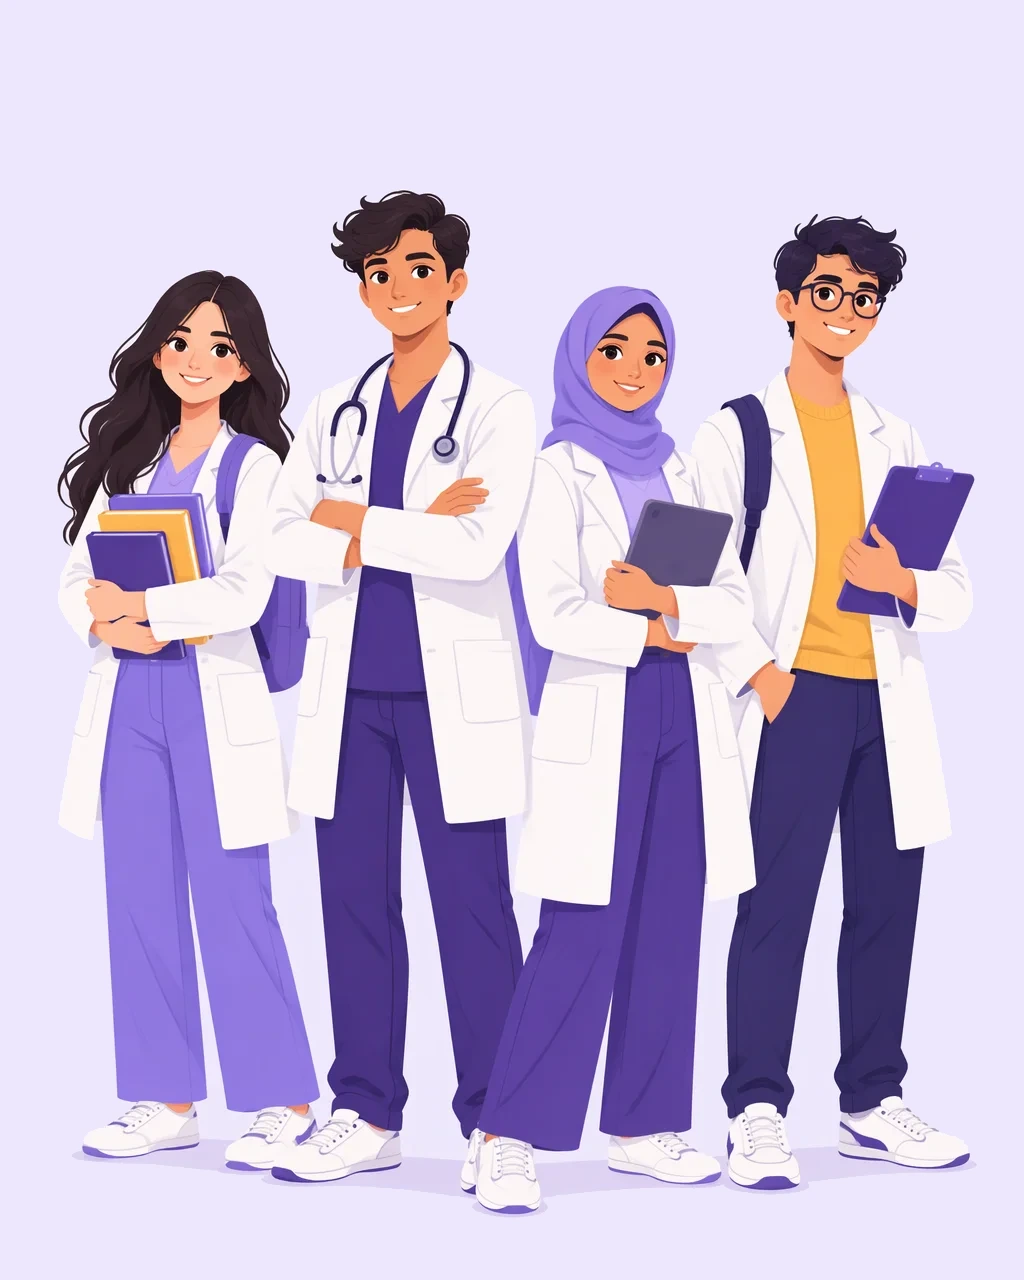
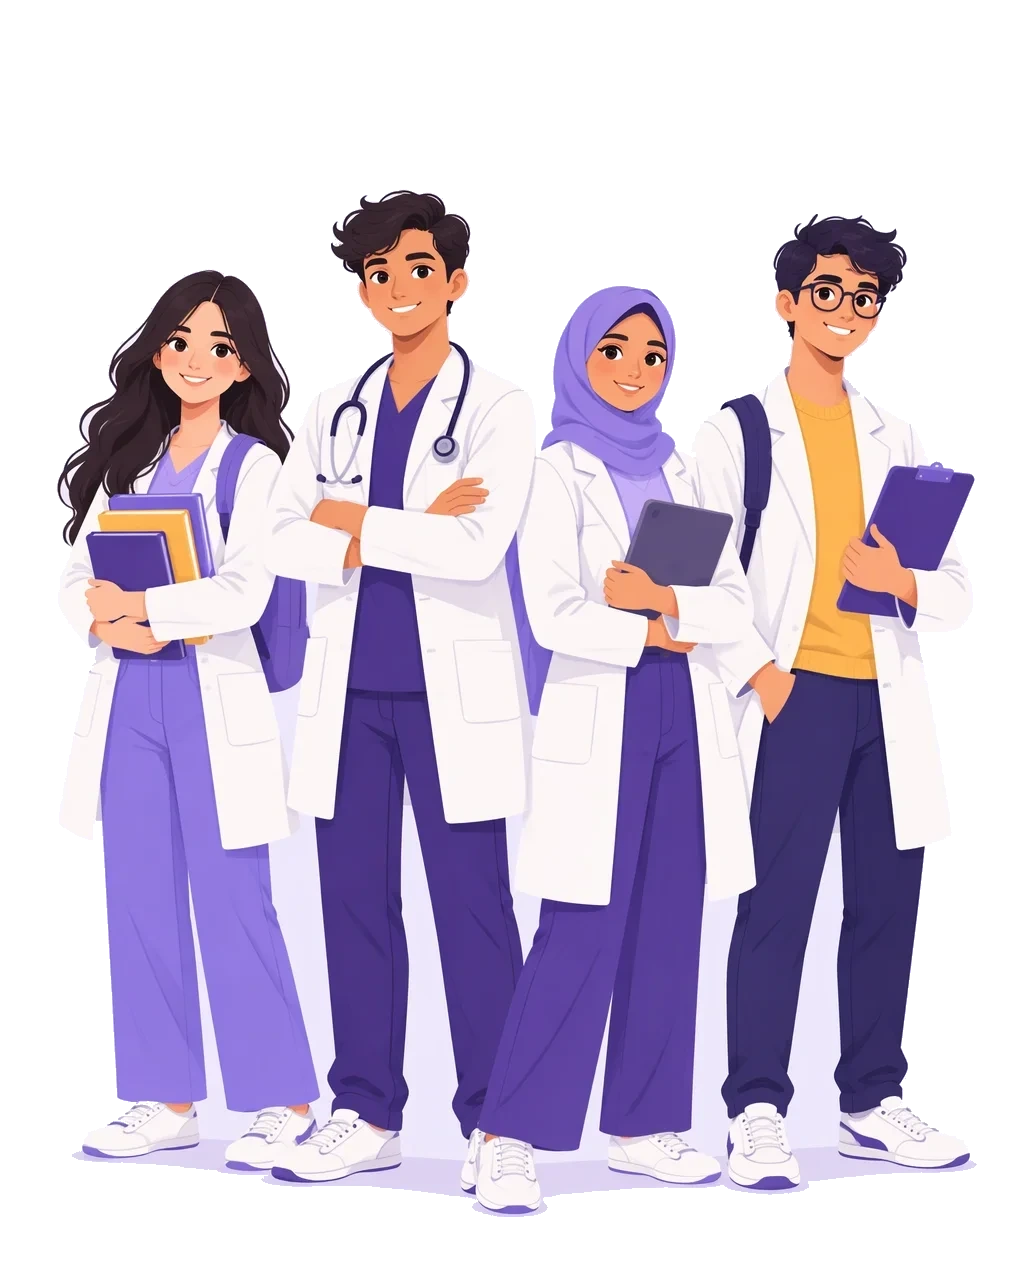
fix: auth pages — laptop-tier sizing, transparent illustrations, no magic cursor
- add 1200–1439px tier (card 1000px, title 32px) so laptops don't get desktop scale
- illustrations use transparent backgrounds so the panel gradient shows through
- remove theme magic cursor from auth layout (stray black dot on login/register)

diff --git a/public/frontend/css/auth.css b/public/frontend/css/auth.css
@@ -427,6 +427,41 @@ body {
 }
 
 /* ---------- Responsive ---------- */
+@media (min-width: 1200px) and (max-width: 1439.98px) {
+    .auth-card {
+        max-width: 1000px;
+    }
+
+    .auth-visual {
+        padding: 34px 34px 0;
+    }
+
+    .auth-visual-copy {
+        margin-top: 36px;
+    }
+
+    .auth-visual-title {
+        font-size: 32px;
+    }
+
+    .auth-visual-text {
+        font-size: 14px;
+        max-width: 350px;
+    }
+
+    .auth-panel {
+        padding: 40px 44px;
+    }
+
+    .auth-panel-inner {
+        max-width: 396px;
+    }
+
+    .auth-card-title {
+        font-size: 26px;
+    }
+}
+
 @media (min-width: 992px) and (max-height: 800px) {
     .auth-shell {
         padding: 24px 20px;

diff --git a/resources/views/frontend/layouts/auth.blade.php b/resources/views/frontend/layouts/auth.blade.php
@@ -21,11 +21,7 @@
     @yield('extra_css')
 </head>
 
-<body class="th-magic-cursor">
-
-    <div id="magic-cursor" class="cursor-black-bg">
-        <div id="ball"></div>
-    </div>
+<body>
 
     <div class="page-preloader" id="page-preloader" role="status" aria-label="Page is loading">
         <div class="loading-container" aria-hidden="true">
